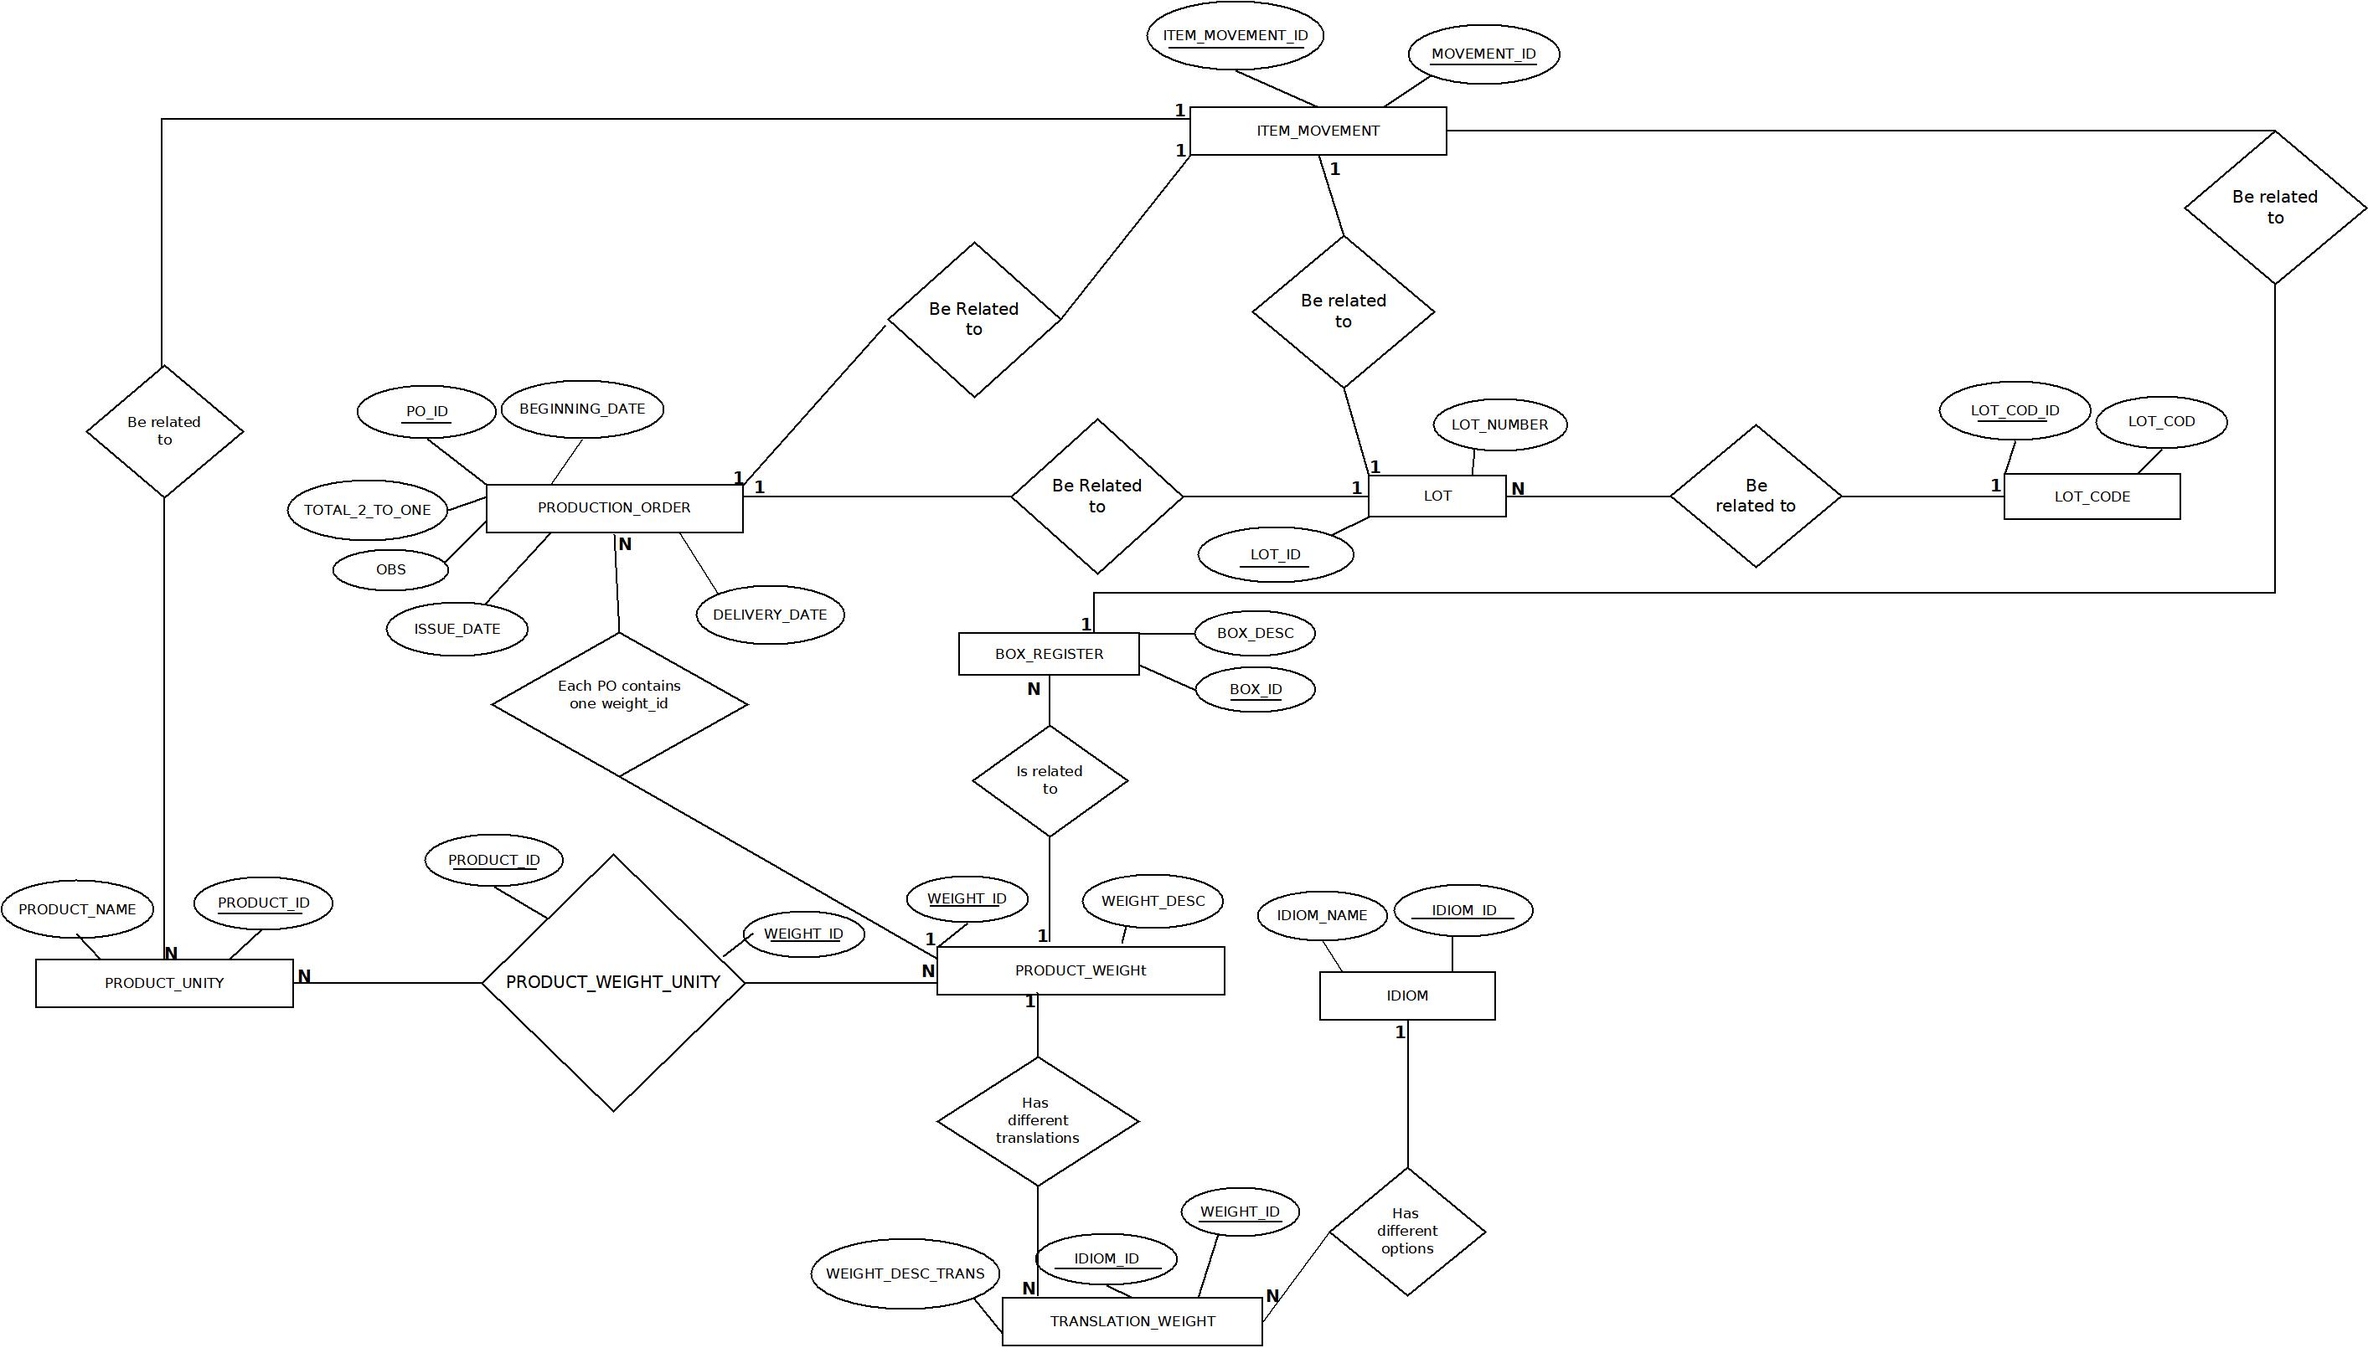
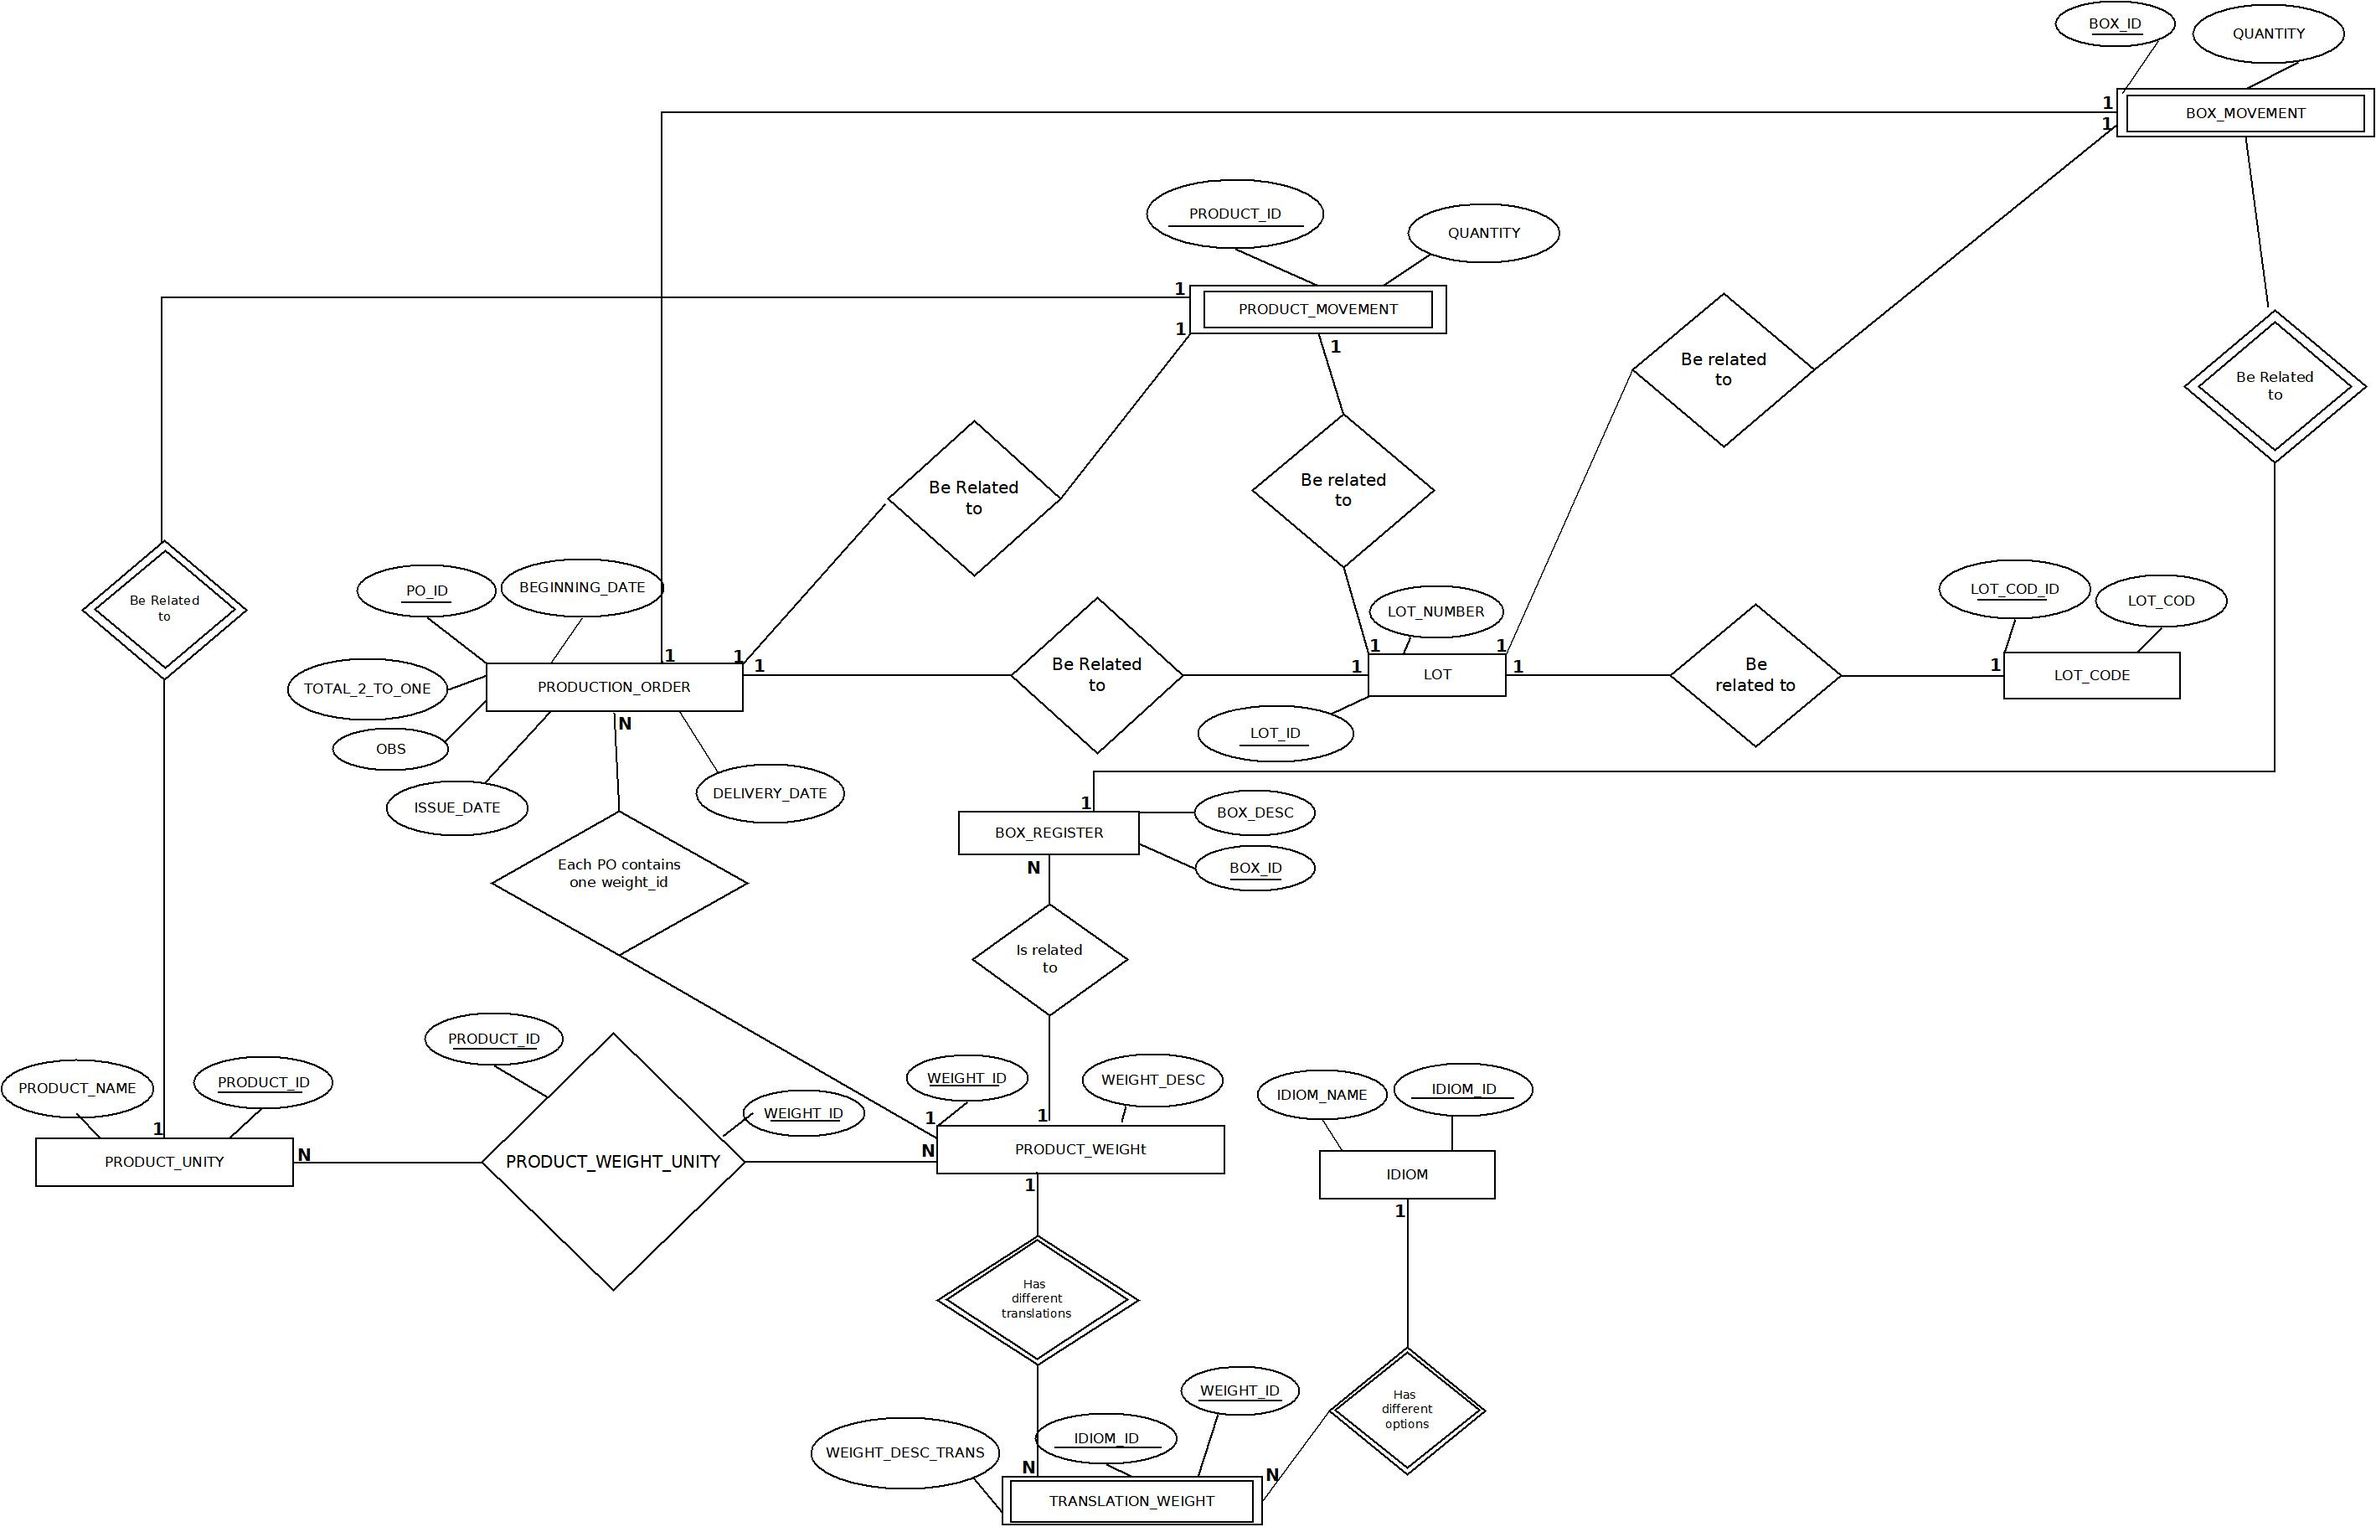
final one!

diff --git a/readme.md b/readme.md
@@ -20,10 +20,7 @@
 
 <p>I would like to define what Production Order stands for: Whenever, a product request is made, a sheet is generated with all information the machine operator needs, this includes requesting supplies from the logistic department, guiding the operator to label the packaging and knowing how much needs to be produced. </p>
 
-<p>In my experience at the factory, I realized that a production order sheet, generated by the ERP system Protheus, is formed by the relationships between multiple tables.</p>
-
-<br>
-
+<p>In my experience at the factory, I realized that a production order sheet, generated by the ERP system Protheus, is formed by the relationships between multiple tables.</p><br><br>
 <h2 id="databasedesign">The Database Design</h2>
 <p>The database design is based on the relationships between the entities involved in the production order workflow. Since the production order itself is not organized as a database, it was necessary to identify all the entities related to the workflow and ensure that the structure has proper connections to better represent the business rules and preserve cohesion.</p>
 
@@ -48,9 +45,11 @@
 
     LOT(Lot_id[PK], Lot_cod_id[FK], Lot_number) 
 
-    LOT_CODE(Lot_cod_id[PK], Lot_cod) 
+    LOT_CODE(Lot_cod_id[PK], Lot_cod)
+    
+    BOX_MOVEMENT(Box_id[PK AND FK], Po_id[FK], lot_id[FK], Quantity)
 
-    ITEM_MOVEMENT(Item_movem_id[PK], Movement_id[PK], Quantity, Product_id[FK], Box_id[FK], Lot_id[FK], Po_id[FK])
+    PRODUCT_MOVEMENT(Product_id[PK], Lot_id[FK], Quantity)
  </p>
  <h3 id="relationships"> Critical relationships</h3>
  <p>As I mentioned earlier, the sheets were not organized as a database, which means that there is redundant  information. It was necessary to identify the entities and ensure that at least the third normal form (3NF) was applied.</p>
@@ -63,7 +62,7 @@
     PRODUCT_WEIGHT_UNITY(Product_id[PK and FK], Weight_id[PK and FK]) 
 
     PRODUCT_WEIGHT(Weight_id[PK] ,Box_id[FK], Weight_desc)   
-The table PRODUCT_UNITY is responsible for storing all the types of candy that the factory manufactured. The PRODUCT_WEIGHT is reponsible to associating one product (or a collection of products) with its respective packaging.  Since, one product - or more than one - can be associated with multiple packaging options - and multiple packaging options also can be associated with more than one products, it was necessary to create a associative table (PRODUCT_WEIGHT_UNITY) to ensure that all combinations are possible. 
+The table PRODUCT_UNITY is responsible for storing all the types of candy that the factory manufactured. The PRODUCT_WEIGHT is reponsible to associating one product (or a collection of products) with its respective packaging.  Since, one product - or more than one - can be associated with multiple packaging options - and multiple packaging options also can be associated with more than one product, it was necessary to create a associative table (PRODUCT_WEIGHT_UNITY) to ensure that all combinations are possible. 
 <br>
 <br>
 2.[PRODUCT_WEIGHT] 1:N [BOX_REGISTER]
@@ -81,17 +80,25 @@ The PRODUCT_WEIGHT is also responsible for associating products with their respe
     LOT_CODE(Lot_cod_id[PK], Lot_cod)
     
 Products are organized into categories and the LOT table reflects this rule. The LOT_CODE table is responsible for storing these categories. Since each "Lot_id" can belong to only one category the primary key of the LOT_CODE table is referenced in the LOT table as a foreign key. 
-<br>
-<br>
-4.[PRODUCTION_ORDER] 1:1 [ITEM_MOVEMENT]
+<br><br>
+4.[PRODUCT_UNITY] 1:1 [PRODUCT_MOVEMENT] 1:1 [LOT] 1:1 [PRODUCTION_ORDER]
+   
+    PRODUCT_UNITY(Product_id[PK], product_name)
+
+    PRODUCT_MOVEMENT(Product_id[PK], Lot_id[FK], Quantity)
+
+    LOT(Lot_id[PK], Lot_cod_id[FK], Lot_number) 
 
     PRODUCTION_ORDER(Po_id[PK], Issue_Date, Beginning_date, Delivery_date, Total_2_To_One, OBS, Lot_id[FK], Weight_id[FK])
-
-    ITEM_MOVEMENT(Item_movem_id[PK], Movement_id[PK], Quantity, Product_id[FK],Box_id[FK], Lot_id[FK], Po_id[FK])
-The table ITEM_MOVEMENT is responsible for storing the data that the machine operator needs to request items from the logistics department. The primary key of the ITEM_MOVEMENT is formed by two fields to ensure that each individual movement (Item_movem_id) can be associated with one "Movement_id"
+The PRODUCT_MOVEMENT table is responsible for storing all movements of a product. This table is a weak entity, meaning it requires foreign keys as part of its primary key <br><br>
+A production order and a specific product/products share the same lot. Therefore, the connection between PRODUCT_MOVEMENT and PRODUCTION_ORDER is through the primary key of the LOT table.
 <br><br>
-Since only one production order can be associated with one logistics movement, the primary key from the PRODUCTION_ORDER table is referenced in the ITEM_MOVEMENT table.
- 
+5.[BOX_MOVEMENT] 1:1 [PRODUCTION_ORDER]
+
+    BOX_MOVEMENT(Box_id[PK AND FK],Po_id[FK], lot_id[FK], Quantity)
+
+    PRODUCTION_ORDER(Po_id[PK], Issue_Date, Beginning_date, Delivery_date, Total_2_To_One, OBS, Lot_id[FK], Weight_id[FK])
+Since a specific box does not share the same lot with a production order, the connection between these tables is through the primary key of the PRODUCTION_ORDER table as a foreign key in the BOX_MOVEMENT table.<br><br>
 <h2 id="Technologies">Technologies Used</h2>
 <ul>
 <li>SQL Server Management Studio 20.2: Used for designing, querying, and managing the database.</li>
